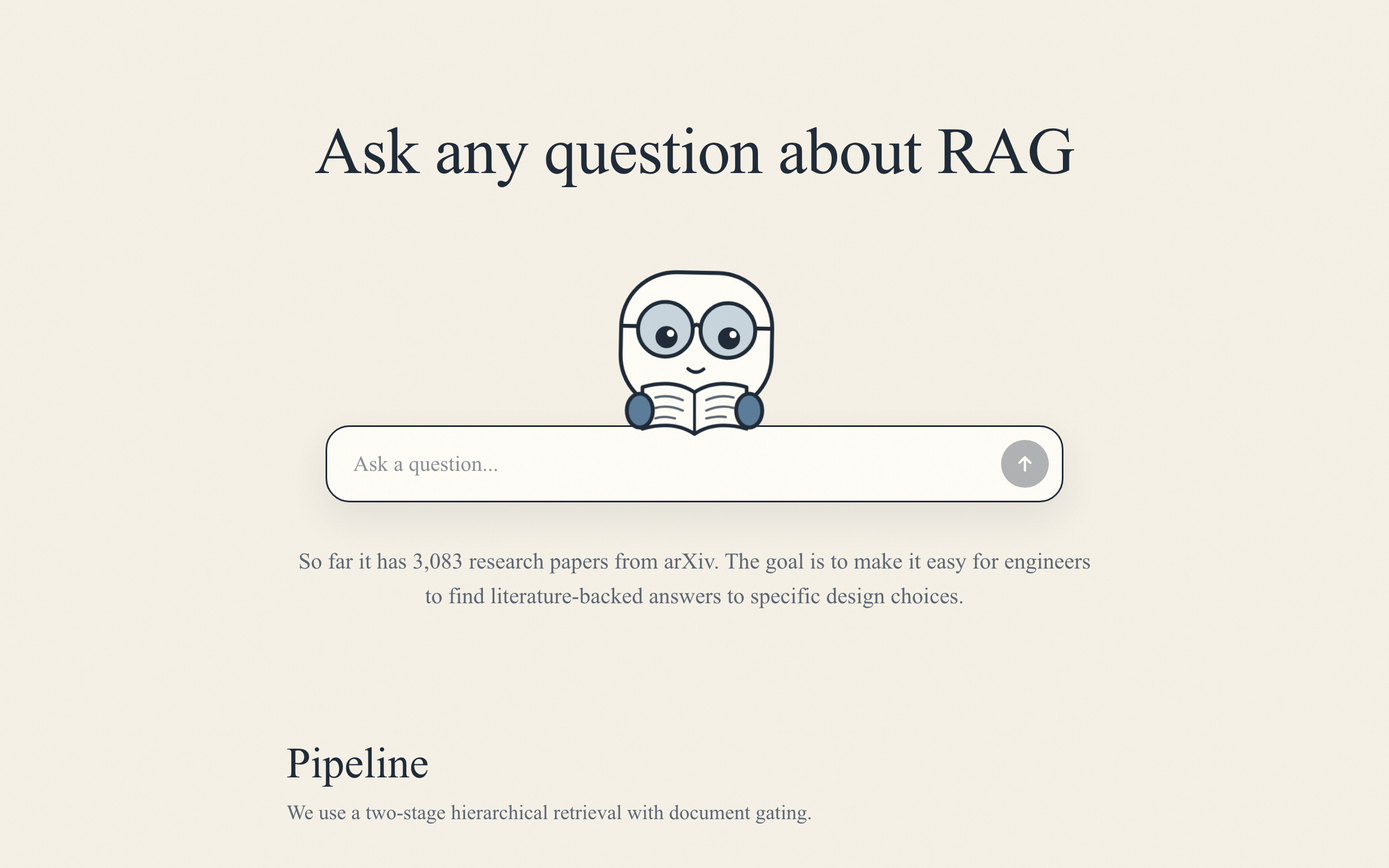
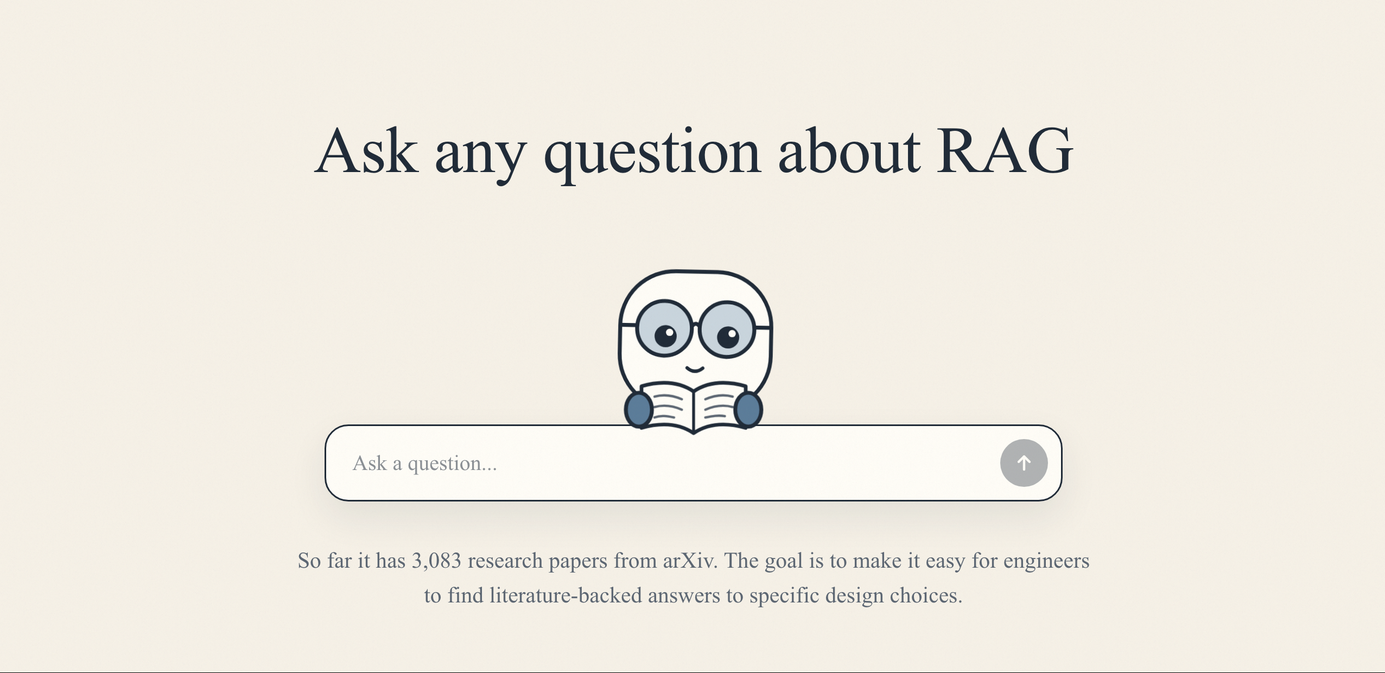
Improve the README diagram and screenshot
- Use a connected image of the pipeline in place of the Mermaid diagram
- Crop the screenshot above the pipeline section
- Make the front-end line plain text

diff --git a/README.md b/README.md
@@ -13,37 +13,12 @@ The goal is to make it easy for engineers and scientists to find quick, literatu
 
 We use a two-stage hierarchical retrieval with document gating.
 
-```mermaid
-flowchart TB
-    subgraph S1[" "]
-        direction LR
-        Q[User query] --> QR[Query Rewriter]
-        QR --> DR[Document Retriever]
-        DR -->|"Semantic search<br/>top k docs"| RRF([RRF])
-        DR -->|"Lexical search<br/>top k docs"| RRF
-        RRF --> RR[Rerank]
-        RR -->|Relative thresholding| SEL[Selected m docs]
-    end
-    subgraph S2[" "]
-        direction LR
-        CR[Chunk Retriever] -->|Chunk similarity score| X((×))
-        CR -->|Document score| X
-        X -->|Select top n chunks| G[Generator]
-        G --> A[Answer]
-    end
-    S1 --> S2
-    style S1 fill:transparent,stroke:transparent
-    style S2 fill:transparent,stroke:transparent
-    classDef part fill:#dbe4ea,stroke:#1f2a37,color:#1f2a37,stroke-width:2px
-    classDef plain fill:#ffffff,stroke:#1f2a37,color:#1f2a37,stroke-width:2px
-    class QR,DR,CR,G part
-    class Q,RRF,RR,SEL,X,A plain
-```
+![RAG Architecture](RAG.png)
 
 
 The front-end calls four Supabase Edge Functions in order: `Query_rewriter`, `Document_retriever`, `Chunk_retriever` and `Generator`.
 
-#### For the front-end we use **Next.js** (Typescript, React & Tailwind)
+For the front-end we use Next.js (Typescript, React & Tailwind).
 
 
 
@@ -69,7 +44,7 @@ I iterated on this stage so documents are processed and stored for effective dow
 
 ### Query Rewriting
 
-Raw user queries should not go directly to the retriever. **GPT** rewrites each query into a retrieval-optimized query, which is used for retrieval. The answer is still generated for the original question.
+Raw user queries should not go directly to the retriever. **GPT** rewrites each query into a retrieval-optimized query, which is used for retrieval. The answer is still generated for the original question. Messages that are not about RAG, such as greetings, are filtered out at this stage, without searching the papers.
 
 
 ### Document Retrieval
